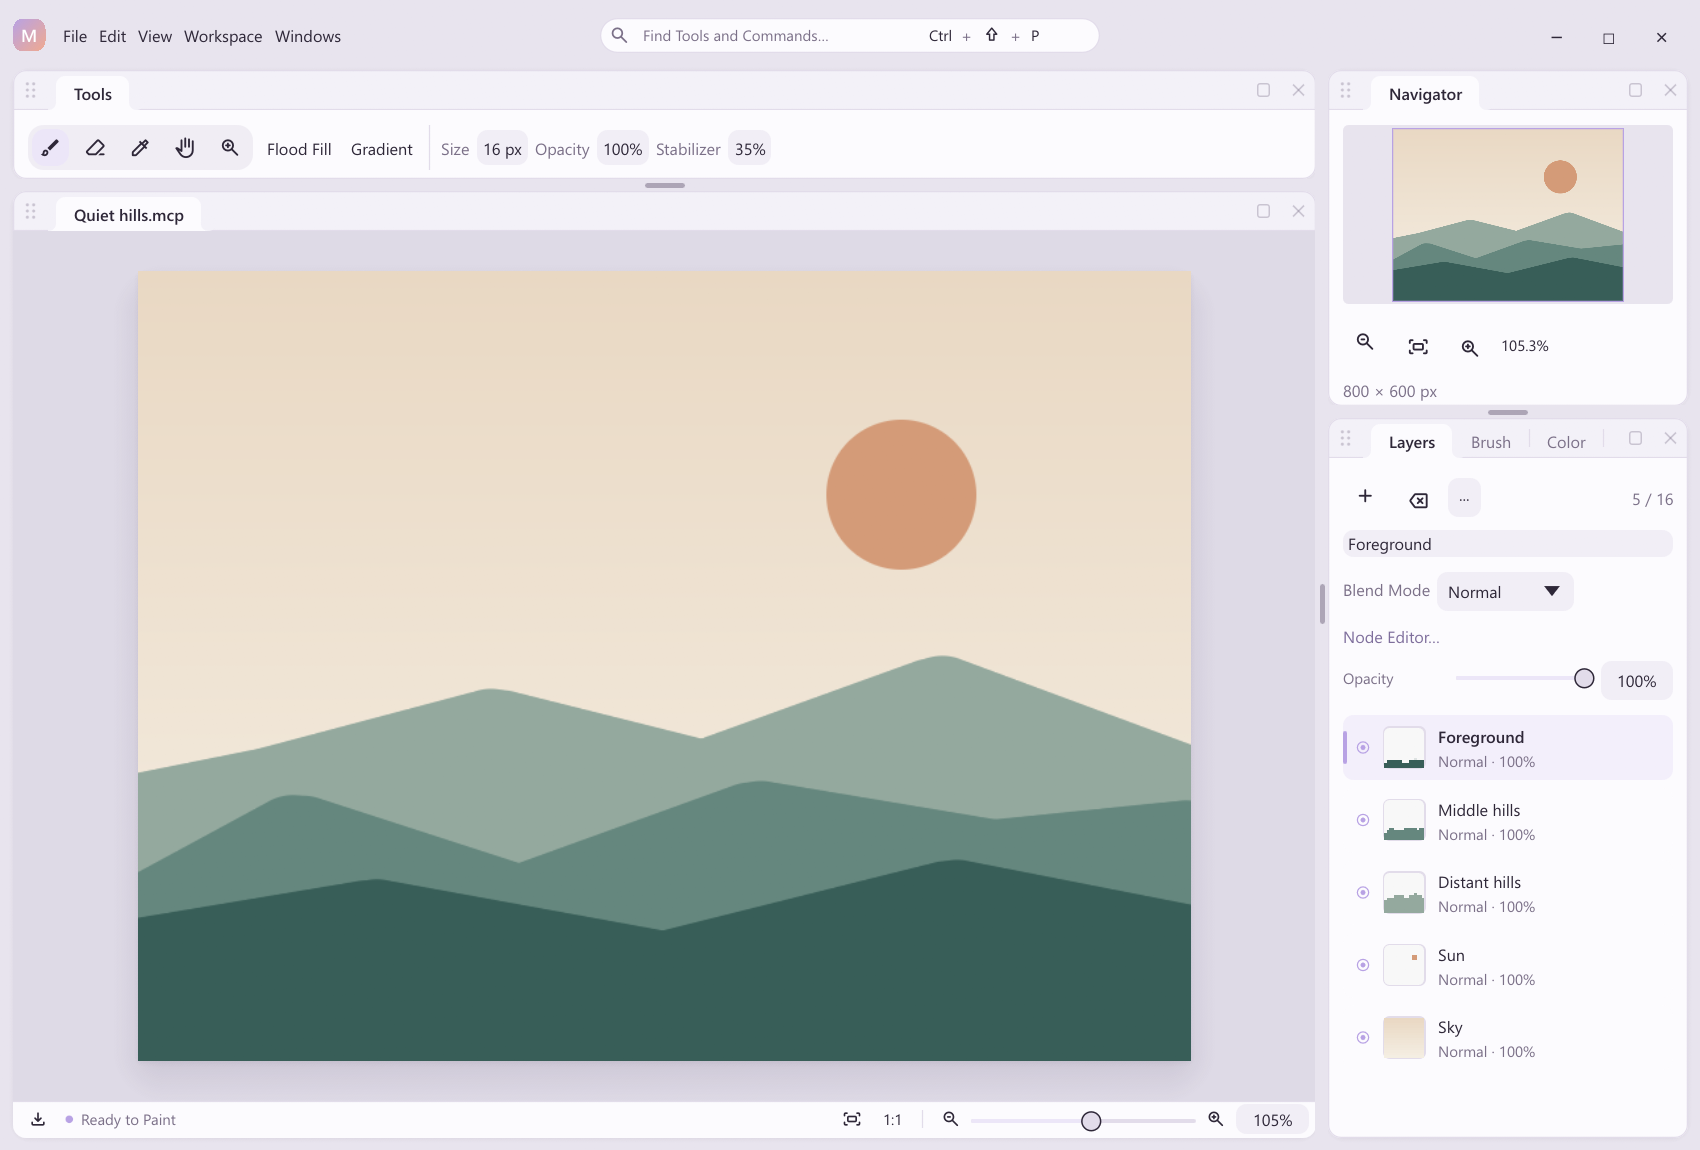
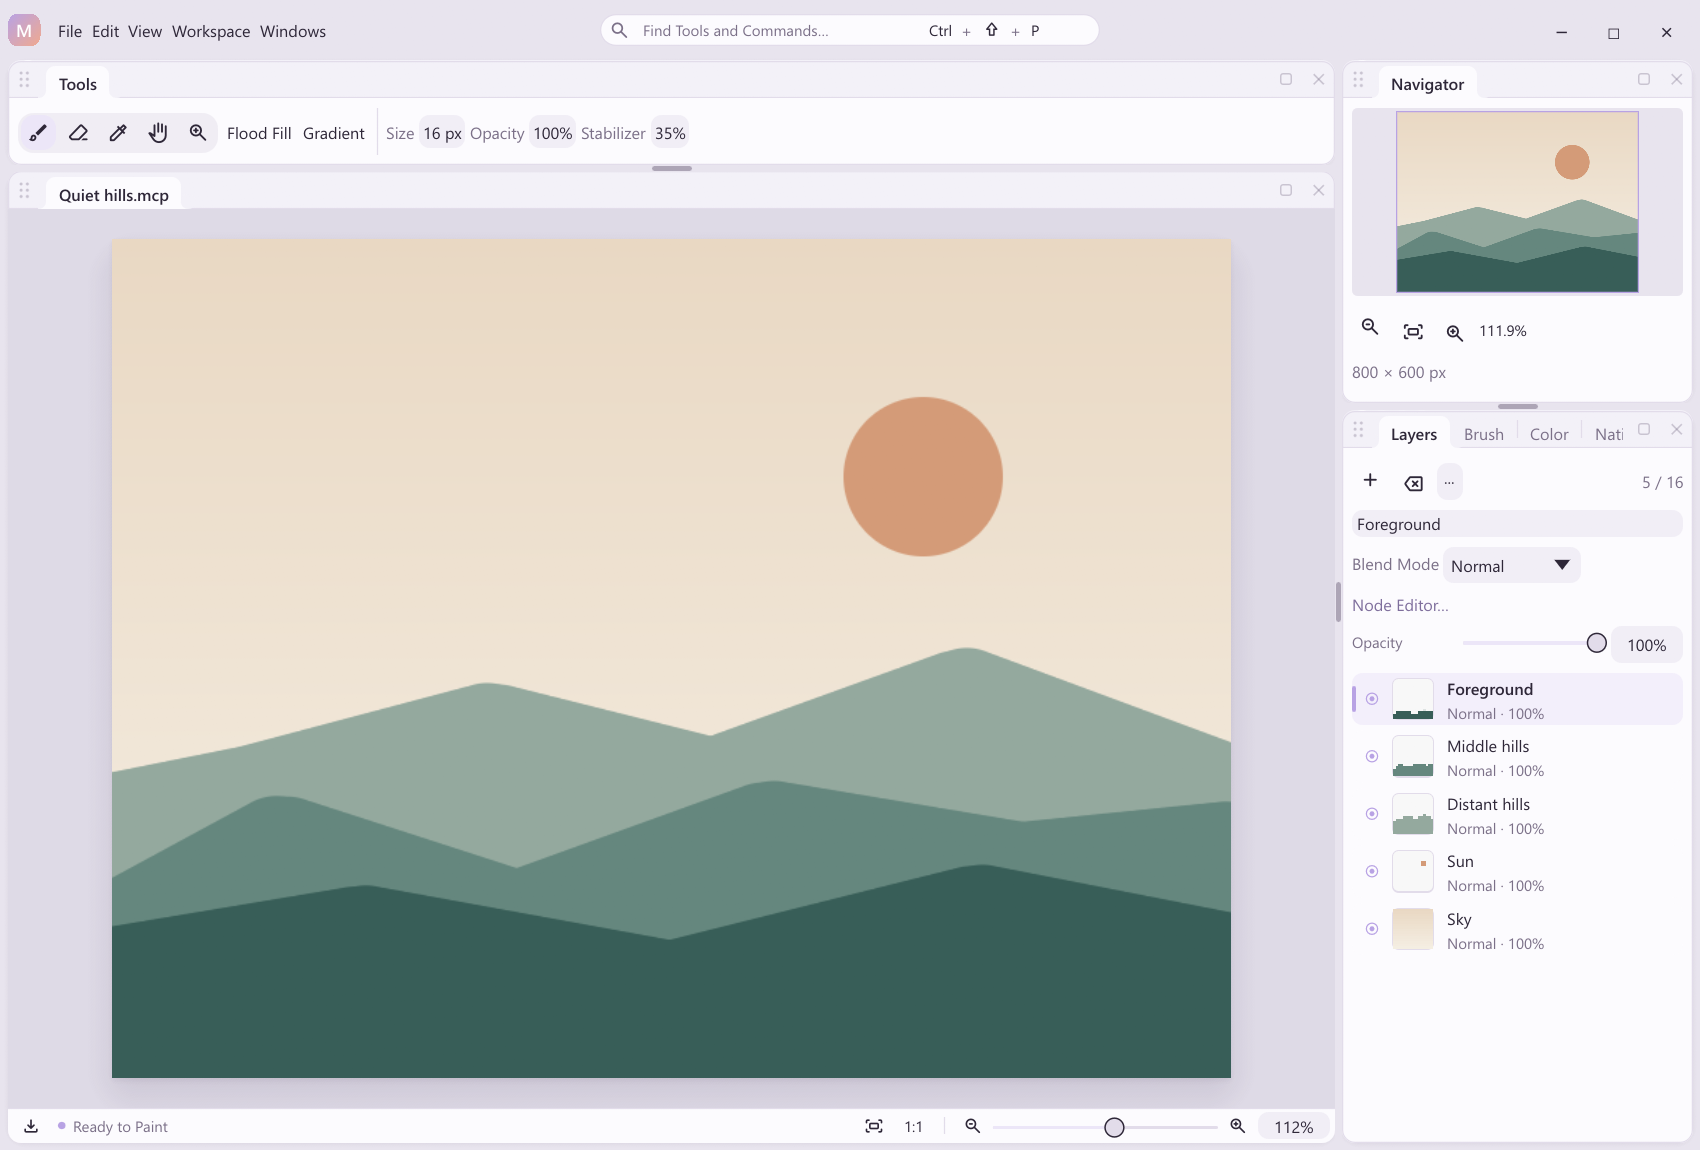
style: tighten default spacing for a denser workbench
Defaults are now 4 pt item gaps, 8 pt panel padding, 6 pt workspace
edges, 26 pt controls, 30 pt tab rows and an 80 pt toolbox. The
Compact preset goes further. Existing explicit settings are preserved.

diff --git a/src/configuration.rs b/src/configuration.rs
@@ -35,33 +35,34 @@ impl Default for Appearance {
             theme: "graphite".into(),
             font_size: 13.,
             small_font_size: 12.,
-            item_spacing: 6.,
-            section_spacing: 16.,
-            panel_padding: 12.,
-            outer_padding: 10.,
-            control_height: 28.,
+            item_spacing: 4.,
+            section_spacing: 12.,
+            panel_padding: 8.,
+            outer_padding: 6.,
+            control_height: 26.,
             title_height: 36.,
-            toolbar_height: 36.,
-            tab_height: 32.,
+            toolbar_height: 34.,
+            tab_height: 30.,
             corner_radius: 8.,
             icon_size: 18.,
             left_panel_width: 244.,
             toolbox_width: 720.,
-            toolbox_height: 88.,
-            right_panel_width: 280.,
-            canvas_margin: 32.,
+            toolbox_height: 80.,
+            right_panel_width: 272.,
+            canvas_margin: 24.,
             accent: "#B8A2E4".into(),
         }
     }
 }
 impl Appearance {
     pub fn compact(&mut self) {
-        self.item_spacing = 6.;
-        self.section_spacing = 12.;
-        self.panel_padding = 10.;
-        self.control_height = 26.;
-        self.toolbar_height = 36.;
-        self.tab_height = 30.;
+        self.item_spacing = 4.;
+        self.section_spacing = 8.;
+        self.panel_padding = 6.;
+        self.outer_padding = 4.;
+        self.control_height = 24.;
+        self.toolbar_height = 32.;
+        self.tab_height = 28.;
     }
     pub fn validate(&self) -> Result<(), String> {
         for (name, value, low, high) in [

diff --git a/docs/interface-design.md b/docs/interface-design.md
@@ -14,18 +14,18 @@ All dimensions below are logical points and follow each viewport's DPI scale. Se
 | --- | ---: | --- |
 | `ui.font_size` | 13 | Body and control text |
 | `ui.small_font_size` | 12 | Secondary labels and metadata |
-| `ui.item_spacing` | 6 | Gaps within a control group |
-| `ui.section_spacing` | 16 | Separation between related property sections |
-| `ui.panel_padding` | 12 | Content inset within panels |
-| `ui.outer_padding` | 10 | Workspace and native-window edge inset |
-| `ui.control_height` | 28 | Shared control hit height |
-| `ui.tab_height` | 32 | Grip, tabs and group controls |
+| `ui.item_spacing` | 4 | Gaps within a control group |
+| `ui.section_spacing` | 12 | Separation between related property sections |
+| `ui.panel_padding` | 8 | Content inset within panels |
+| `ui.outer_padding` | 6 | Workspace and native-window edge inset |
+| `ui.control_height` | 26 | Shared control hit height |
+| `ui.tab_height` | 30 | Grip, tabs and group controls |
 | `ui.title_height` | 36 | Application title row |
 | `ui.icon_size` | 18 | Toolbar icon size |
 | `ui.corner_radius` | 8 | Controls and content surfaces |
 | `ui.accent` | `#B8A2E4` | Lavender selection and identity color |
-| `ui.toolbox_height` | 88 | Preferred control-bar group height |
-| `ui.right_panel_width` | 280 | Default property sidebar width |
+| `ui.toolbox_height` | 80 | Preferred control-bar group height |
+| `ui.right_panel_width` | 272 | Default property sidebar width |
 
 Property rows share a proportional label column, a flexible slider and a consistent numeric column. Long translated labels truncate with a tooltip. Narrow panels place the slider below its label/value row. Tab labels retain internal padding, while the tab strip scrolls independently of the fixed group buttons. Swatches stop growing at the configured control height. Their local spacing does not leak into neighboring controls.
 

diff --git a/CHANGELOG.md b/CHANGELOG.md
@@ -2,6 +2,7 @@
 
 ## Unreleased
 
+- Tighten default spacing for a denser workbench: 4 pt item gaps, 8 pt panel padding, 6 pt workspace edges, 26 pt controls and 30 pt tab rows; the Compact preset goes further.
 - Move canvas zoom from the top toolbar into a thin strip beneath the stage with a logarithmic slider and an editable percentage field; remove the workspace status bar and show status, pen pressure, document size and history memory in that strip.
 - Replace rounded tab capsules with browser-style tabs: the active tab shares the panel surface and flares into it, while resting tabs are labels separated by thin dividers.
 - Set group tab rows apart from panel content with a tinted band and hairline divider; show rounded grab handles on splitters that highlight while hovered or dragged.
